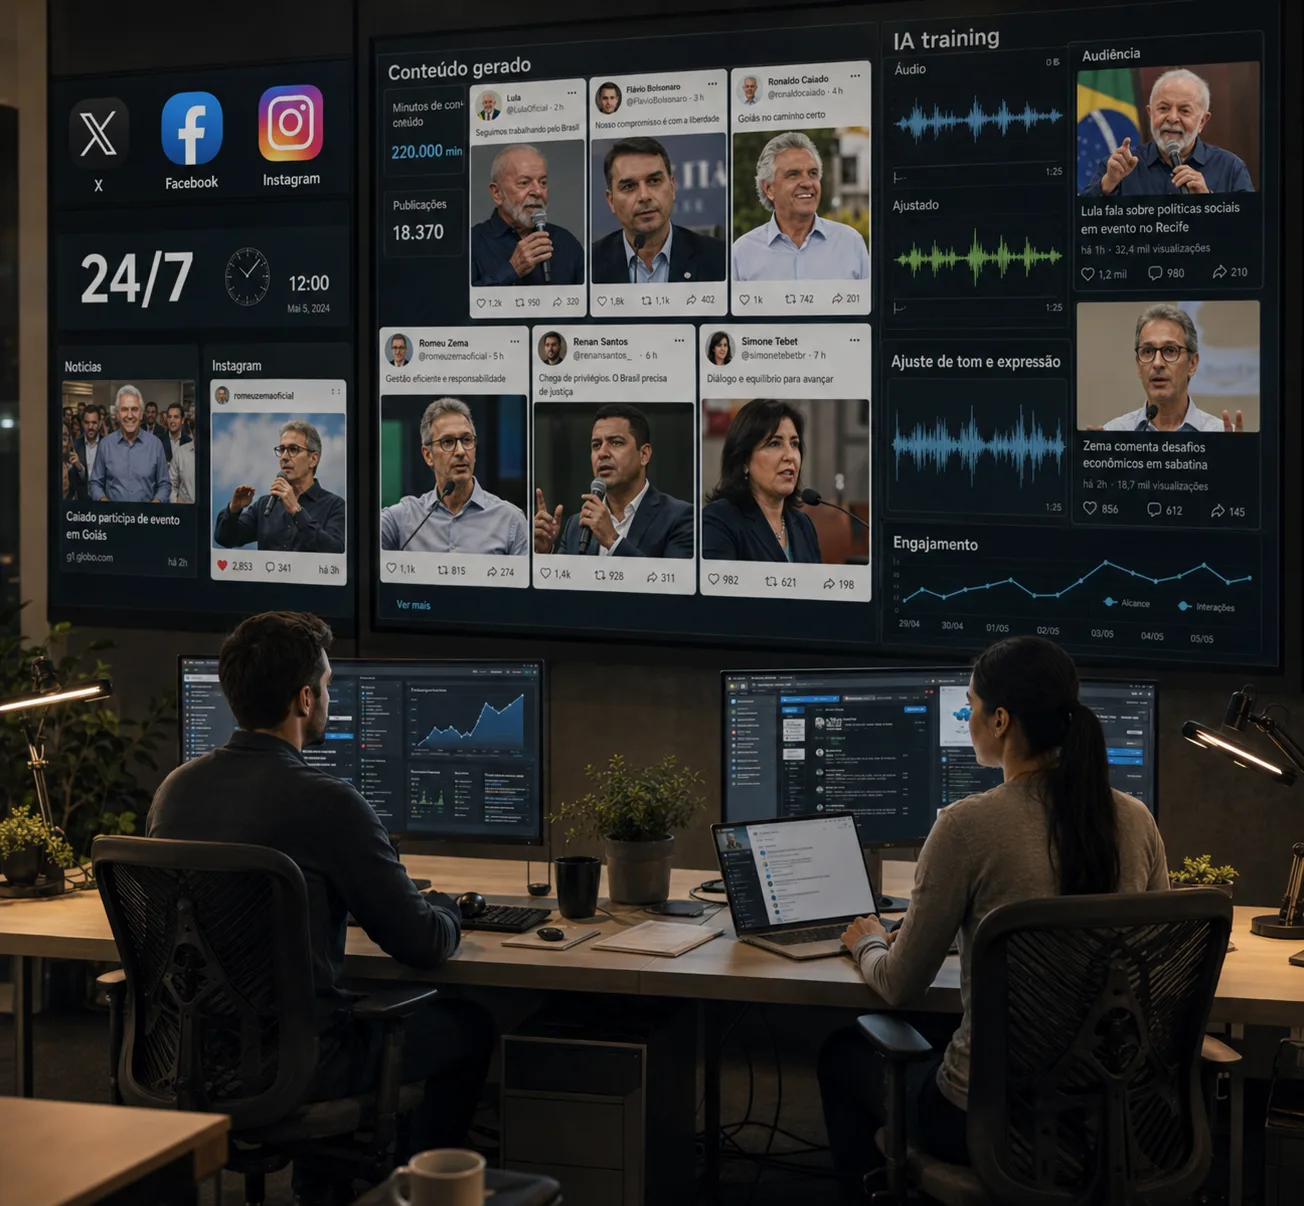
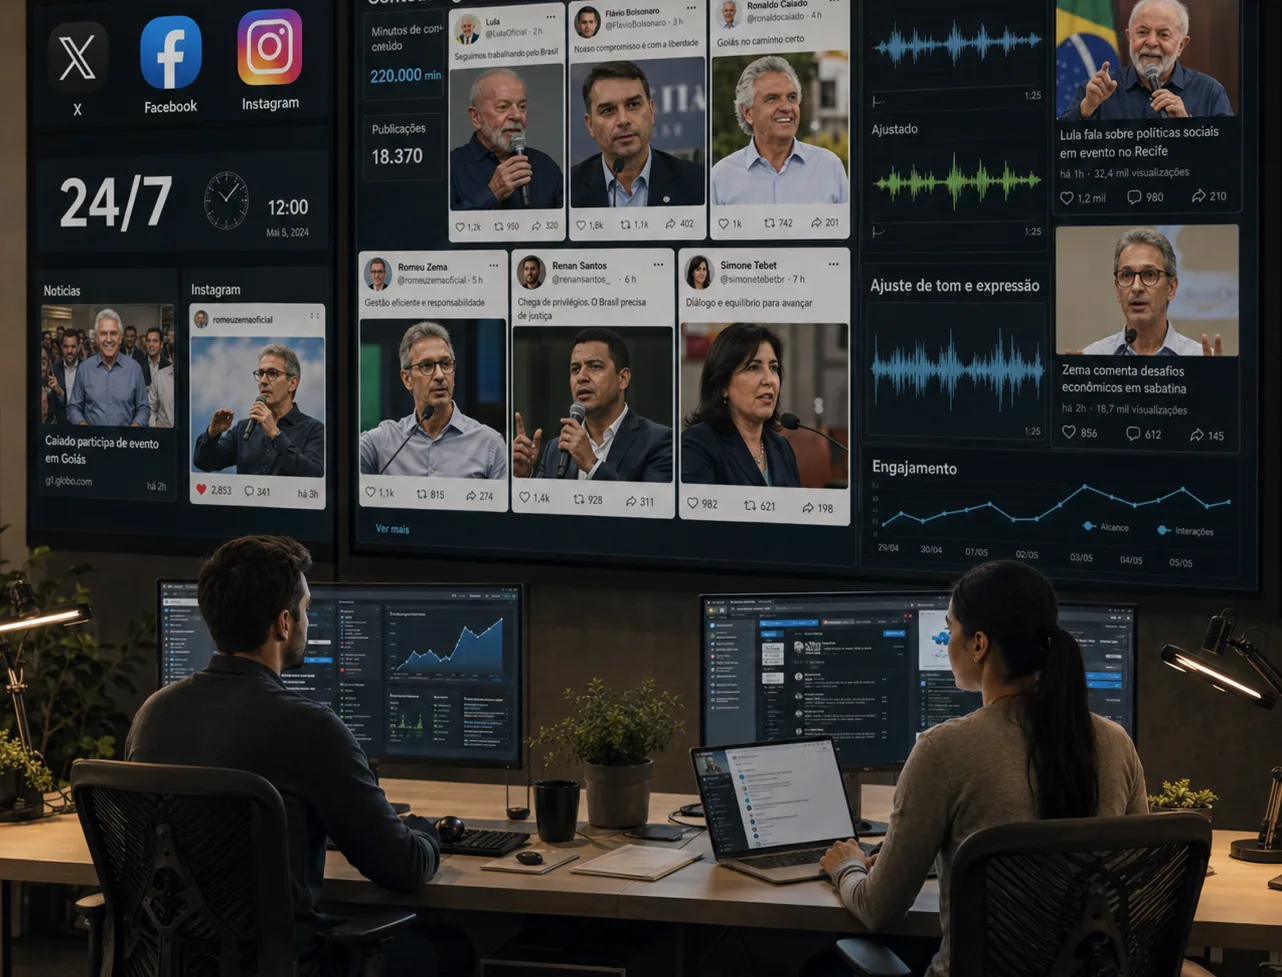
fix(marketing): atualiza imagem da hero em /na-pratica
Novo recorte da mesma arte (sala de operação) — ajusta o aspect-ratio
do container pra bater exato com a proporção nova da imagem, sem corte.

diff --git a/public/na-pratica/index.html b/public/na-pratica/index.html
@@ -146,7 +146,7 @@
   .hero-actions { display: flex; flex-wrap: wrap; gap: 12px; align-items: center; margin-bottom: 12px; }
   .hero-note { font-size: 13px; color: var(--ink-soft); margin: 14px 0 40px; }
 
-  .hero-visual { position: relative; border-radius: var(--radius-lg); overflow: hidden; box-shadow: var(--shadow); aspect-ratio: 1304 / 1206; width: 100%; }
+  .hero-visual { position: relative; border-radius: var(--radius-lg); overflow: hidden; box-shadow: var(--shadow); aspect-ratio: 1282 / 977; width: 100%; }
   .hero-visual img { width: 100%; height: 100%; object-fit: cover; object-position: center; }
 
   .hero-stats { display: grid; grid-template-columns: 1fr; gap: 16px; margin-top: 32px; padding-top: 24px; border-top: 1px solid var(--line-soft); }
